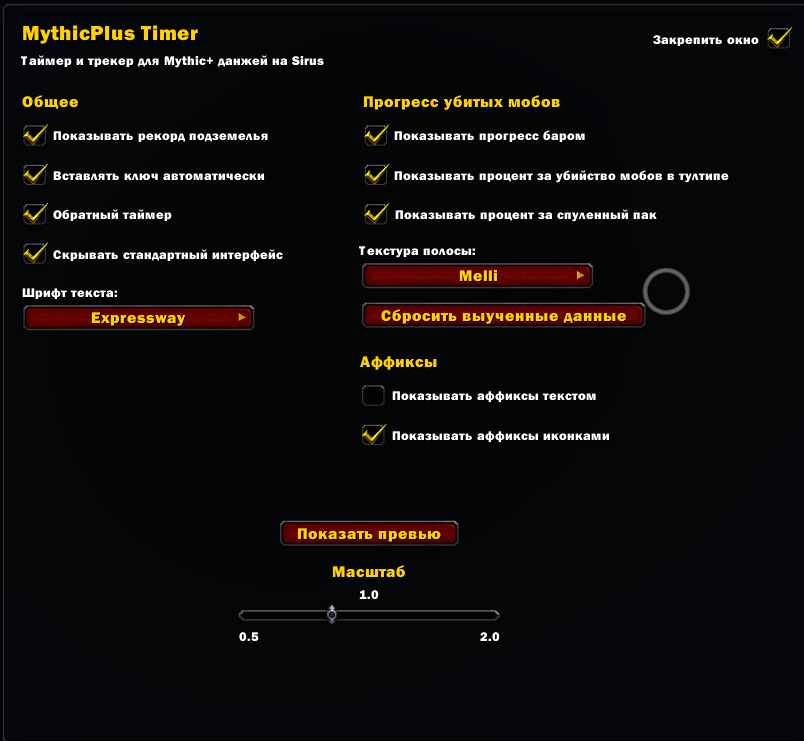
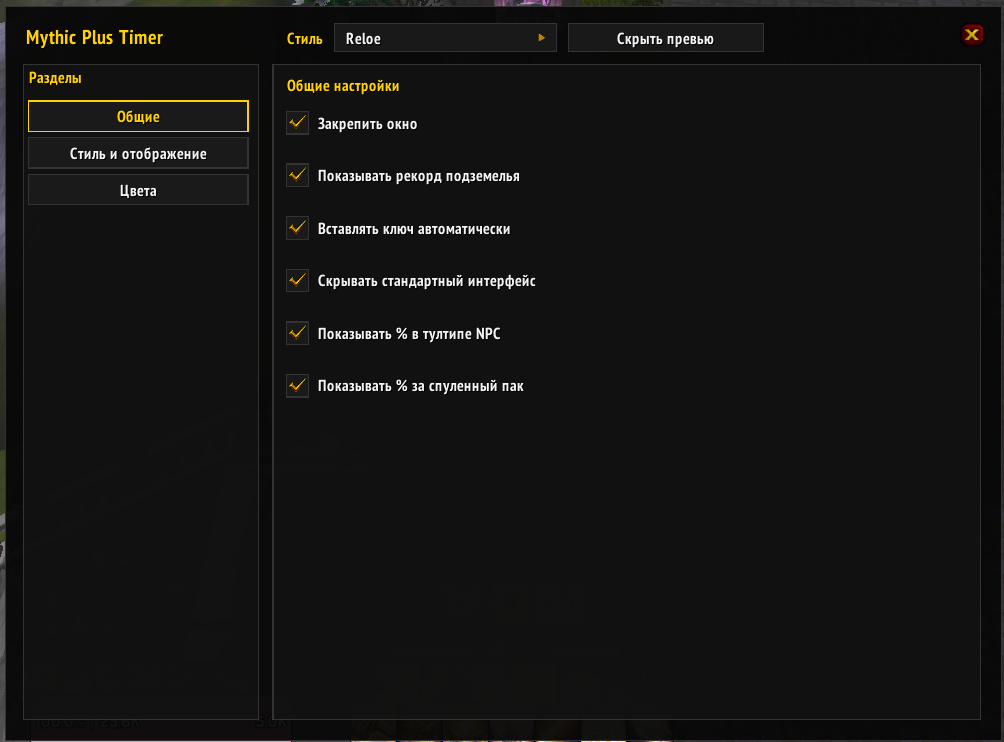
MPT - обновлен README, пофикшена иконка миникарты

Changed region(s): [[0.0, 0.0, 1.0, 1.0], [0.3109, 0.6829, 0.6219, 0.8691], [0.8085, 0.3414, 0.8396, 0.3725]]

diff --git a/README.md b/README.md
@@ -29,7 +29,13 @@ MythicPlus Timer подменяет стандартный интерфейс к
 
 ![Детали аффикса](screenshots/affix-info.png)
 
+Также есть поддержка других стилей таймера:
+
+![Reloe Timer](screenshots/reloe-timer-ui.png)
+
 ### Панель настроек
+
+Команда для вызова настроек /mpt или ЛКМ по иконке на миникарте.
 
 Кастомные настройки: 
 - Закрепление окна. 
@@ -45,7 +51,13 @@ MythicPlus Timer подменяет стандартный интерфейс к
 
 ![Настройки аддона](screenshots/settings.png)
 
-Также есть возможность кастомизировать цвета аддона как удобно.
+Также есть возможность кастомизировать стиль и цвета аддона как удобно.
+
+Стили:
+
+![Настройки цветов аддона](screenshots/style-settings.png)
+
+Цвета:
 
 ![Настройки цветов аддона](screenshots/colors-settings.png)
 
@@ -59,7 +71,7 @@ MythicPlus Timer подменяет стандартный интерфейс к
 ## Использование
 
 - Окно таймера можно перетаскивать; в настройках можно включить «Закрепить окно».
-- Команды: `/mpt` — список команд, `/mpt timer` — показать/скрыть таймер, `/mpt preview` — превью, `/mpt debug` — режим отладки.
+- Команды: `/mpt` — окно настроек, `/mpt timer` — показать/скрыть таймер, `/mpt preview` — превью, `/mpt debug` — режим отладки.
 
 ## Требования
 
